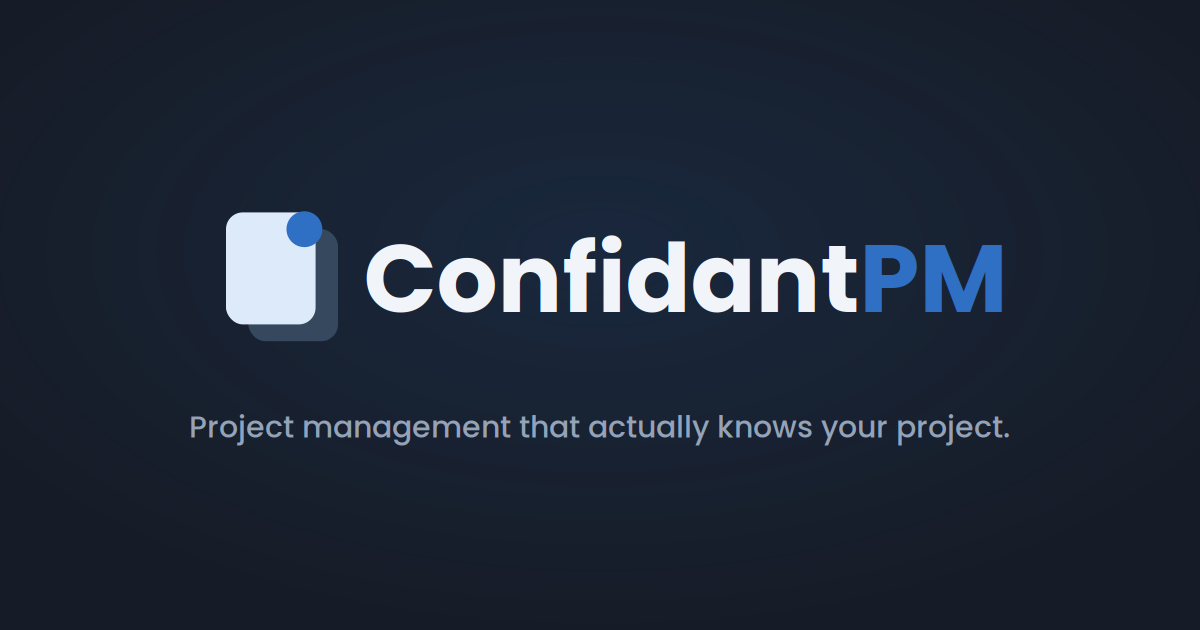
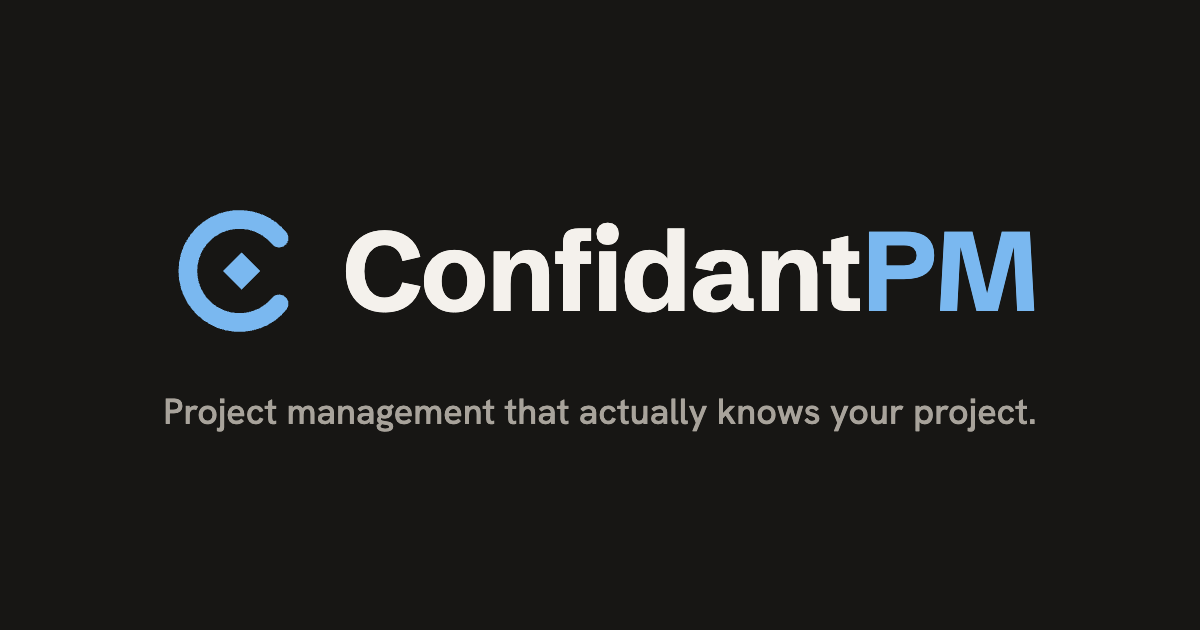
og-image in the CalmSky look

diff --git a/CLAUDE.md b/CLAUDE.md
@@ -147,8 +147,8 @@ Supabase client throws without a URL).
   maskables, apple-touch-icon) and native iOS/Android icons plus charcoal
   splash regenerated from `design/logo/icon-tile.svg` via `@capacitor/assets`
   (sources in `resources/`); `theme-color` and manifest colours are charcoal
-  `#171614`. Still open: `public/og-image.png` (social share image) still has
-  the old branding; no outlined wordmark file yet; native apps need
+  `#171614`. Still open: `public/og-image.png` now carries the CalmSky look (draft kept at
+  `design/logo/og-image-draft.png`); no outlined wordmark file yet; native apps need
   `npx cap sync` and a rebuild to pick any of this up.
 - Not built because there is no data behind it: the dashboard AI note and
   "Waiting for your decision" list (needs a product decision on what the AI
